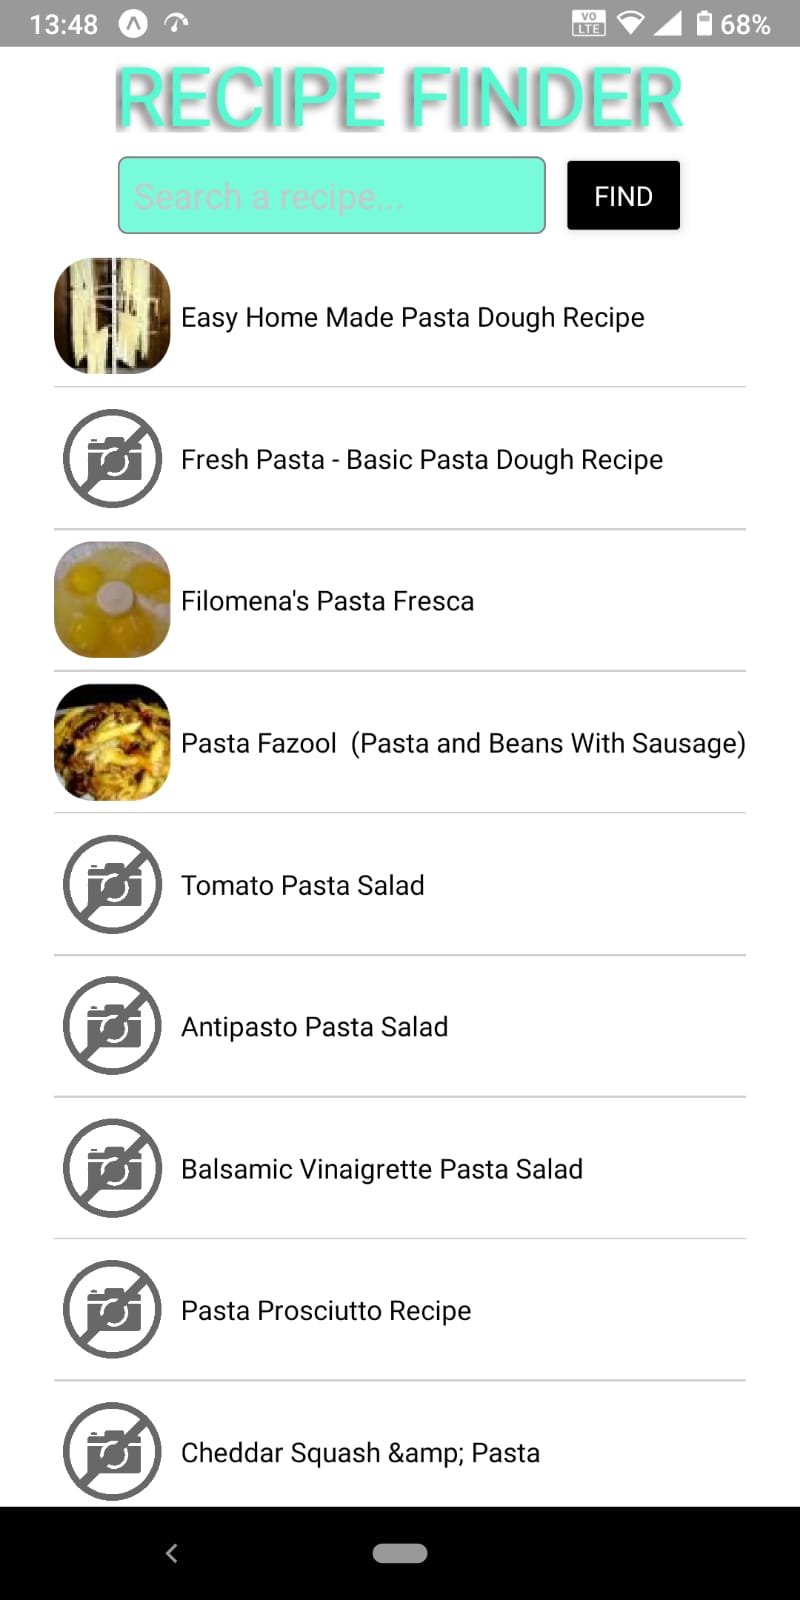
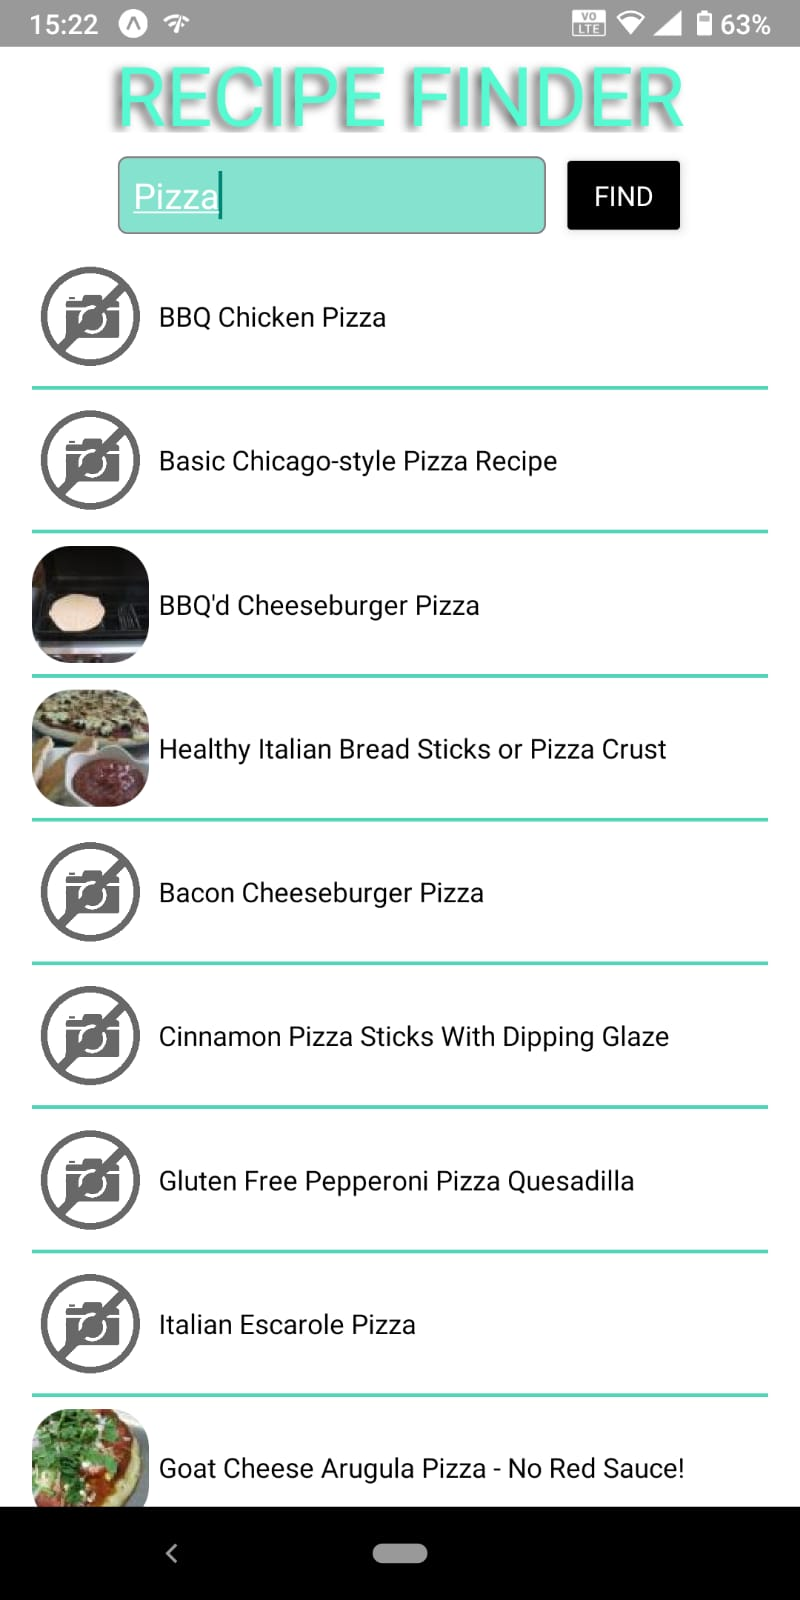
MInor style update

Changed region(s): [[0.0312, 0.0938, 0.9375, 0.9688], [0.0625, 0.0, 0.125, 0.0312], [0.2188, 0.0, 0.25, 0.0312]]

diff --git a/React-Native/07recipeFinder/App.js b/React-Native/07recipeFinder/App.js
@@ -10,8 +10,8 @@ export default function App() {
     fetch(url)
     .then((response) => response.json())
     .then((responseJson) => { 
-       setRecipes(responseJson.results);
-       console.log('json res: ', responseJson);
+      setRecipes(responseJson.results);
+      console.log('json res: ', responseJson);
     })
     .catch((error) => { 
       console.log('Error', error); 
@@ -25,7 +25,9 @@ export default function App() {
         style={{
           height: 1,
           width: "100%",
-          backgroundColor: "#CED0CE",
+          borderStyle: 'dotted',
+          borderTopWidth: 2,
+          borderColor: 'rgb(81, 213, 185)',
           marginVertical: 6,
         }}
       />
@@ -72,18 +74,24 @@ const styles = StyleSheet.create({
   },
   title: {
     flex: .3,
+    textAlign: 'center',
     fontSize: 42,
     marginTop:20,
+    width: '100%',
     textShadowColor: 'rgba(0,0,0,.6)',
     textShadowOffset: {width: -3, height: 2},
     textShadowRadius: 10,
     color: 'rgba(85,250,210, 1)',
     textTransform: 'uppercase',
+
   },
   action: {
     flex:.4,
+    justifyContent: 'center',
+    width: '100%',
     flexDirection: "row",
     alignItems: 'center',
+
   },
   result: {
     flex:4,
@@ -94,8 +102,8 @@ const styles = StyleSheet.create({
     width: 220,
     height: 40,
     paddingLeft: 8,
-    backgroundColor: 'rgba(85,250,210, .8)',
-    color:'gray',
+    backgroundColor: 'rgba(81, 213, 185, .7)',
+    color:'white',
     borderColor: 'gray',
     borderWidth: 1,
     borderRadius: 5,
